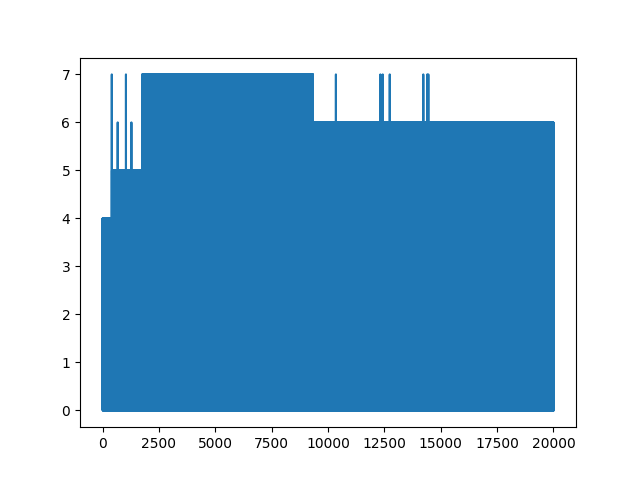
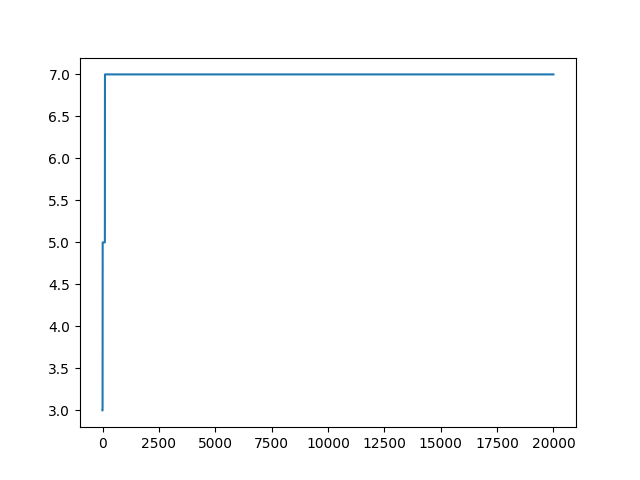
change way of getting results

diff --git a/project/sudoku_evolution.py b/project/sudoku_evolution.py
@@ -19,80 +19,6 @@ K_SELECT = 5 # TODO experiment with value
 NUM_CHILDREN = 10
 MAX_GENERATIONS = 10000
 
-'''
-def solve_sudoku(sudoku):
-    solved = False
-    gens = 0
-
-    # The original sudoku is the first parent
-    parents = [sudoku.copy()]
-    while not solved and gens < MAX_GENERATIONS:
-        children = generate_children(sudoku, parents)
-        print(f"Generation {gens} has generated {len(children)} children")
-        fitness_scores = []
-
-        for c in children:
-            # Check whether any child is the solved sudoku
-            if valid_sudoku(c):
-                return (True, c, gens)
-            # Compute and store fitness of children
-            fitness_scores.append((c, fitness_from_sudoku(c)))
-
-        total_fitness = np.sum(f for c, f in fitness_scores)
-
-        # Sample parents to seed the next generation
-        new_parents = []
-
-        for c, f in fitness_scores:
-            if random.random() <= (f / (total_fitness - f)):
-                new_parents.append(c)
-
-        # Failsafe: if no parents get sampled, sample parent with highest fitness
-        if len(new_parents) == 0:
-            new_parents.append(max(fitness_scores, key=lambda x: x[1])[0])
-
-        parents = new_parents
-        print(f"Generation {gens} sampled {len(parents)} new parents")
-        gens += 1
-    return (False, sudoku, gens)
-
-def generate_children(sudoku, parents):
-    children = []
-
-    # Store which fields we are free to manipulate without changing
-    # the original sudoku
-    positions = determine_open_fields(sudoku)
-
-    # for p in range(len(parents)):
-    while len(children) < NUM_CHILDREN:
-        p = random.choice(parents)
-        child = p.copy()
-
-        # Make sure the child is a complete sudoku
-        vals = available_values(child)
-        if not len(vals) == 0:
-            for i, j in positions:
-                if child[i][j] == 0:
-                    val = random.choice(vals)
-                    child[i][j] = val
-                    vals.remove(val)
-
-        # if random.random() <= CROSSOVER_RATE:
-            # TODO: Implement crossover between parents
-            # place_holder = 1
-
-        if random.random() <= MUTATION_RATE:
-            # Mutation: swap two digits in the sudoku puzzle
-            i1, j1 = random.choice(positions)
-            i2, j2 = random.choice(positions)
-            temp = child[i1][j1]
-            child[i1][j1] = child[i2][j2]
-            child[i2][j2] = temp
-        children.append(child)
-
-    return children
-'''
-
 def evolve_solution(
     sudoku,
     MAX_GENERATIONS=MAX_GENERATIONS,
@@ -112,16 +38,15 @@ def evolve_solution(
         previous_generation.append(vals)
 
     for generation in range(0, MAX_GENERATIONS):
+        # For testing purposes and to generate result: store highest found fitness over all past generations
         best_in_gen = max([local_fitness_from_values(sudoku, open_fields, c) for c in previous_generation])
-        best_fitness_per_generation.append(best_in_gen)
+        if best_in_gen > best_fitness:
+            best_fitness = best_in_gen
 
-        print(f"{generation} : {best_in_gen}")
-        # cum_fitness = np.sum(
-        #     [local_fitness_from_values(sudoku, open_fields, c) for c in previous_generation]
-        # )
-        # weights = [
-        #     local_fitness_from_values(sudoku, open_fields, c) / cum_fitness for c in previous_generation
-        # ]
+        best_fitness_per_generation.append(best_fitness)
+
+        # print(f"{generation} : {best_in_gen}")
+    
 
         new_children = []
         for _ in range(0, NR_CHILDREN // 2):

diff --git a/project/sudoku_solver.py b/project/sudoku_solver.py
@@ -2,7 +2,12 @@ from sudoku import parse_sudoku, pretty_print
 from sudoku_evolution import evolve_solution
 import matplotlib.pyplot as plt
 
-sudoku = parse_sudoku("./project/sudoku1_8v.txt")
+from timeit import default_timer as timer
+from datetime import timedelta
+
+start = timer()
+
+sudoku = parse_sudoku("sudokus/sudoku1_8v.txt")
 # constraints = initialise_constraints(sudoku) # You should not need to modify this
 # found, solution, gens = solve_sudoku(sudoku)
 # if(found):
@@ -13,7 +18,11 @@ sudoku = parse_sudoku("./project/sudoku1_8v.txt")
 iterations, solution = evolve_solution(sudoku)
 if iterations == 9_999:
     plt.plot(solution)
-    plt.savefig("./project/results.png")
+    plt.savefig("results.png")
 if iterations < 9_999:    
     print(f"Solved after {iterations} generations")
     pretty_print(solution)
+
+
+end = timer()
+print(timedelta(seconds=end-start))
